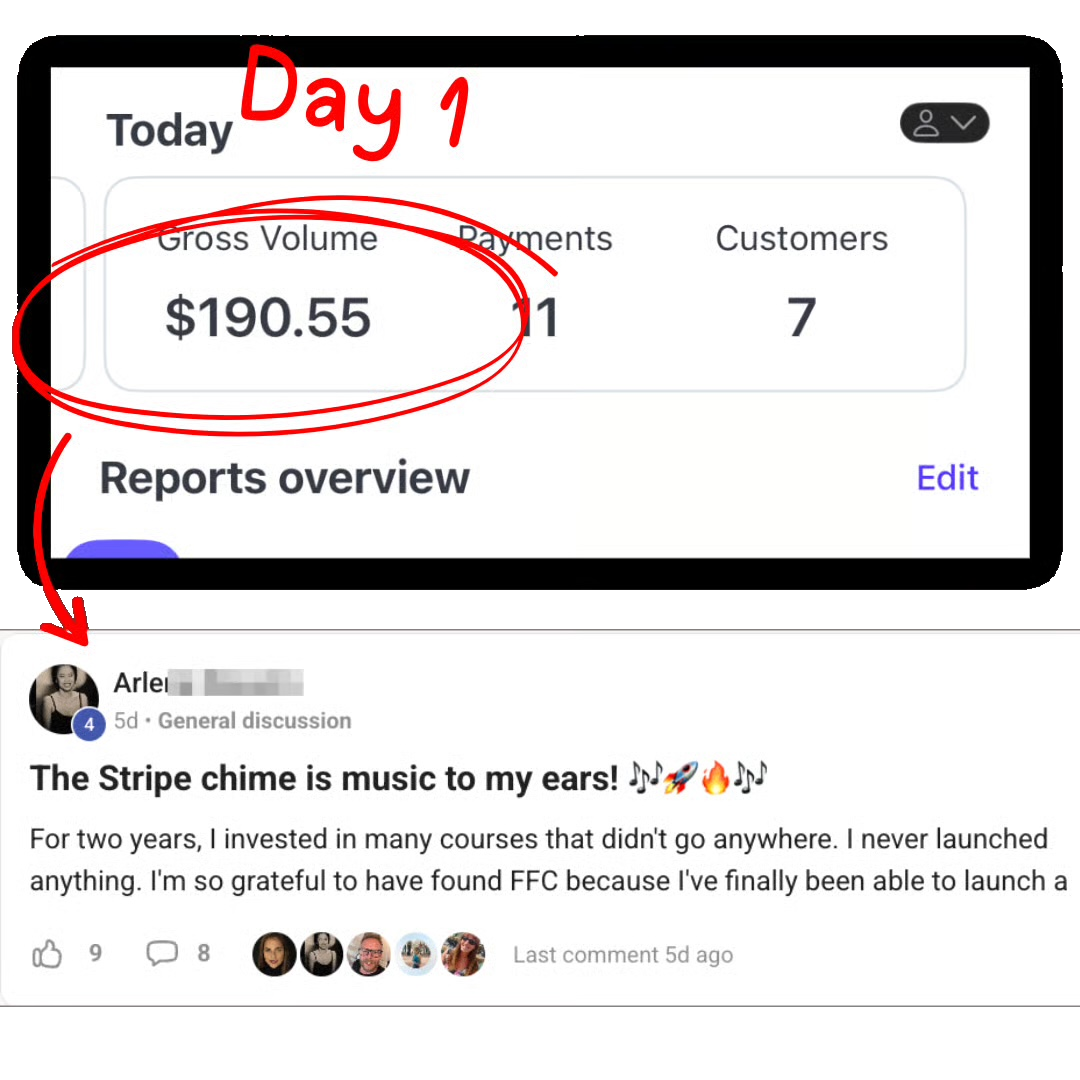
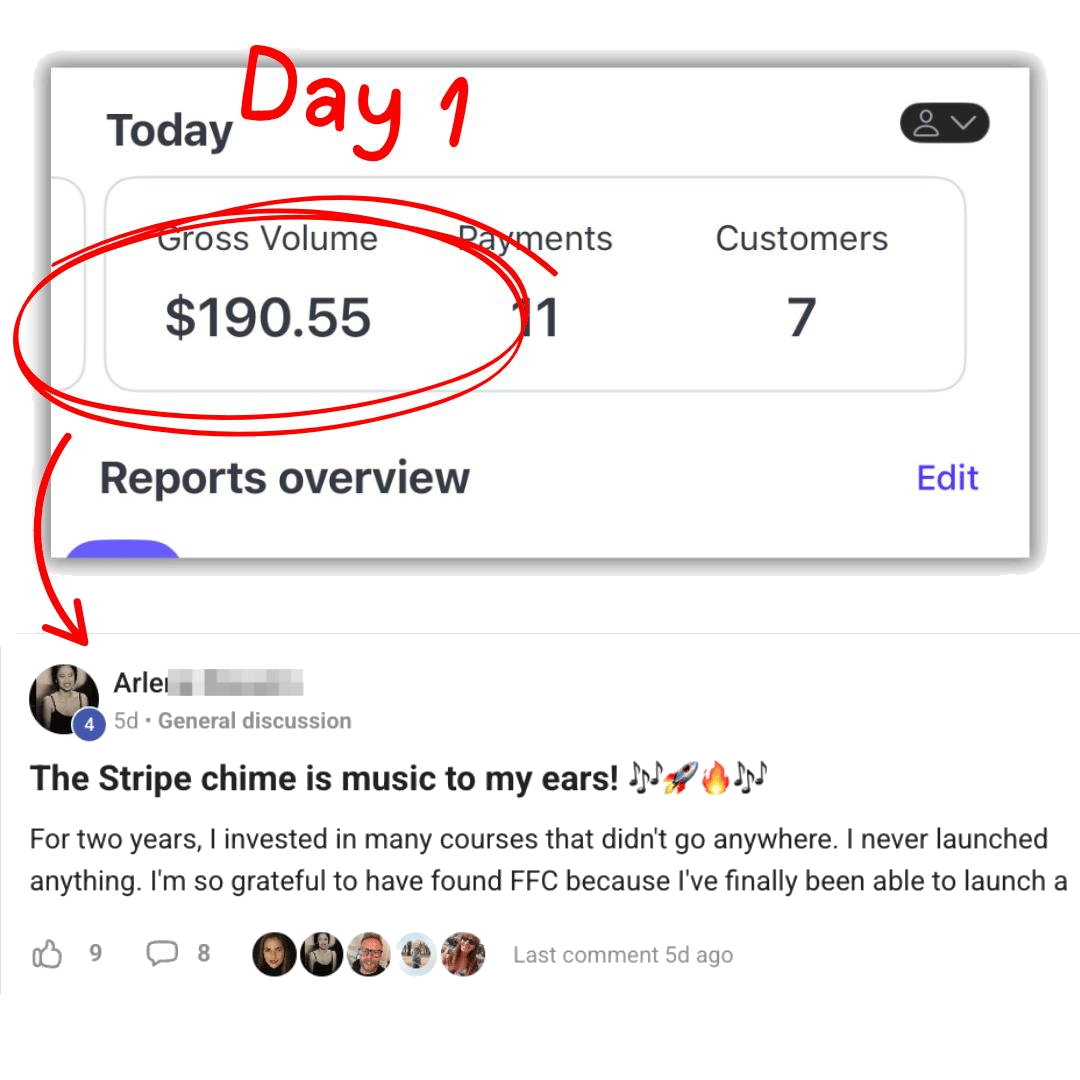
nova: fresh clean Day-1 proof, white bg removed to transparent (v3)

diff --git a/ffc-email-assets/nova-preview.html b/ffc-email-assets/nova-preview.html
@@ -409,7 +409,7 @@
 <div class="nvsec">
   <div class="wrap">
     <div class="dreamrow">
-      <img src="https://facelessreelslab-assets.onrender.com/nova-day1-proof.png?v=2" alt="Day 1: $190.55 gross volume, 11 payments, 7 customers — 'The Stripe chime is music to my ears!'" loading="lazy">
+      <img src="https://facelessreelslab-assets.onrender.com/nova-day1-proof.png?v=3" alt="Day 1: $190.55 gross volume, 11 payments, 7 customers — 'The Stripe chime is music to my ears!'" loading="lazy">
       <h2 class="sec">Join The 10‑Day Challenge Today And Design The Life You Always Dreamed About!</h2>
     </div>
   </div>
